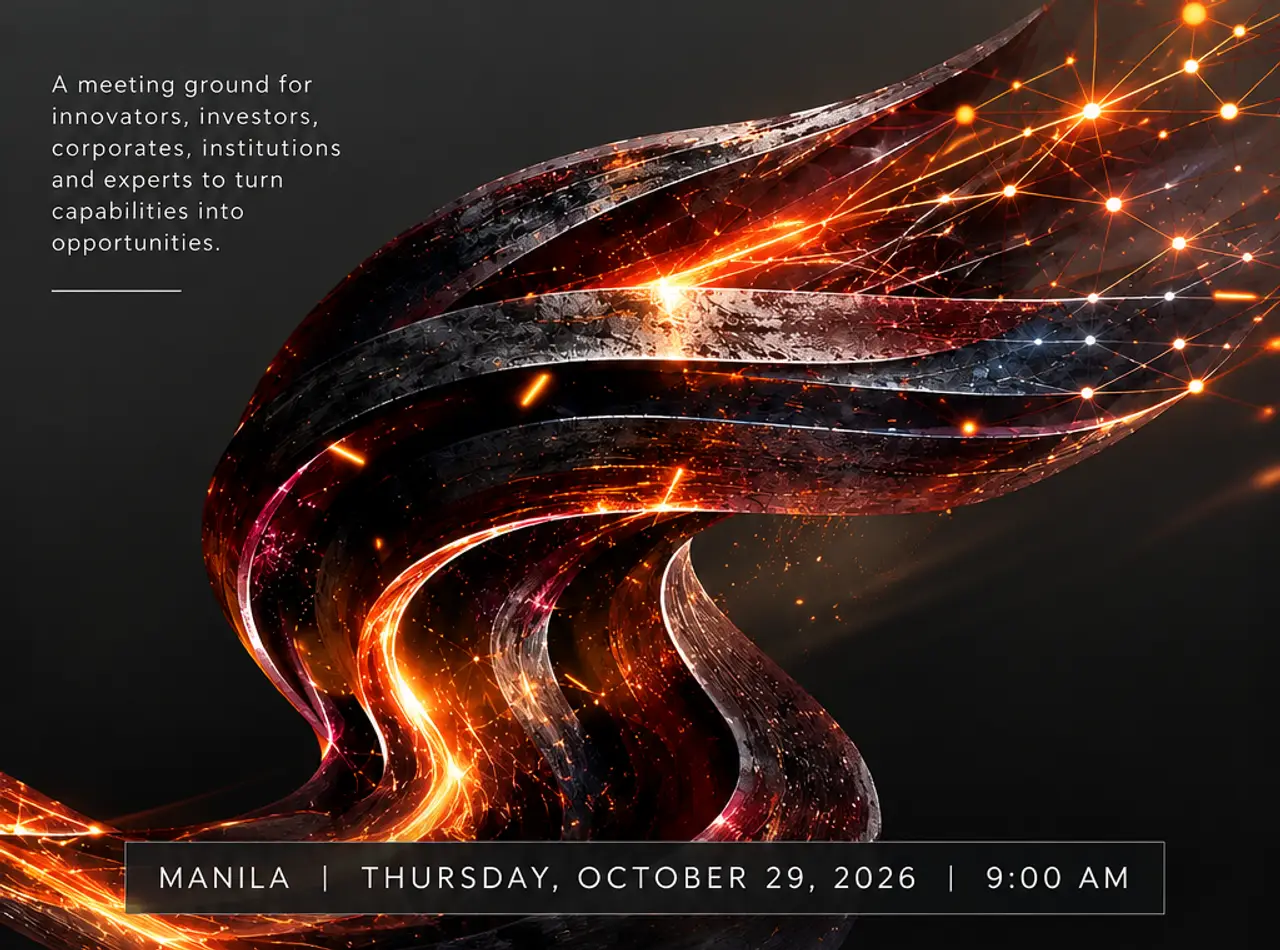
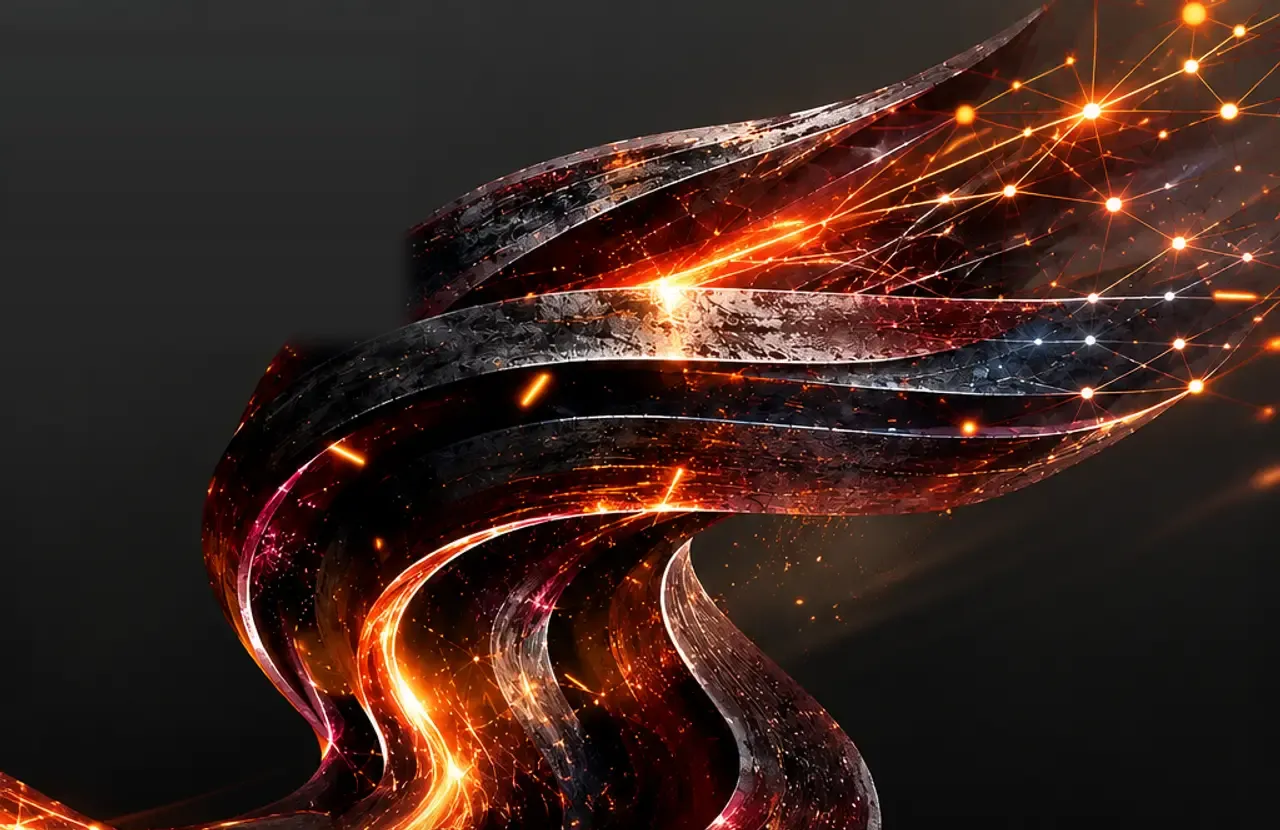
copy: event date to be announced
Replace every date with TBA (header pill, hero facts, menu, programme,
closing, footer, meta). Remove the hero countdown and the Event JSON-LD,
which both need a start date. Clean the fallback ribbon image of the
poster's date bar and paragraph, and use it as the share image instead
of the dated poster.

Claude-Session: https://claude.ai/code/session_01799v2cTxYZjZkqnfiP1j7i

diff --git a/src/sections/hero/hero.css b/src/sections/hero/hero.css
@@ -112,7 +112,7 @@
 .sec--hero .hero__tag em { font-style: italic; color: var(--ember); font-weight: 500; }
 .sec--hero .hero__tag-line { display: block; }
 
-/* Base: date strip, countdown, actions */
+/* Base: event facts */
 .sec--hero .hero__base { display: flex; flex-direction: column; align-items: center; gap: clamp(16px, 2.4svh, 24px); width: 100%; }
 .sec--hero .hero__strip {
   display: grid; grid-template-columns: repeat(2, auto); justify-content: center; gap: 6px 18px;
@@ -122,16 +122,6 @@
 }
 .sec--hero .hero__fact:last-child { grid-column: 1 / -1; color: var(--fog); }
 
-.sec--hero .hero__count { display: flex; flex-direction: column; align-items: center; gap: 8px; }
-.sec--hero .hero__count-label {
-  font-size: var(--fs-micro); font-weight: 600; letter-spacing: var(--track-label); text-transform: uppercase; color: var(--ember);
-}
-.sec--hero .hero__count-units { display: flex; gap: clamp(14px, 2.4vw, 26px); }
-.sec--hero .hero__unit { display: flex; flex-direction: column; align-items: center; min-width: 2.6ch; }
-.sec--hero .hero__num { font-size: var(--fs-h3); line-height: 1; color: var(--cream); font-stretch: 112%; }
-.sec--hero .hero__unit-k { margin-top: 4px; font-size: var(--fs-micro); letter-spacing: var(--track-wide); text-transform: uppercase; color: var(--mute); }
-.sec--hero .hero__count-done { max-width: 36ch; color: var(--bone); font-size: var(--fs-small); }
-.sec--hero .hero__count.is-live .hero__count-units { display: none; }
 
 .sec--hero .hero__ctas { display: flex; flex-wrap: wrap; justify-content: center; gap: 12px; }
 .sec--hero .hero__cta--ghost { background: rgba(8, 11, 14, 0.4); }
@@ -183,17 +173,15 @@
     flex-direction: row; align-items: flex-end; justify-content: space-between; gap: clamp(16px, 2.4vw, 40px);
     margin-top: auto; padding-top: clamp(20px, 4svh, 48px);
   }
-  /* Facts box hugs its text: three facts on one row, the venue beneath */
-  .sec--hero .hero__strip { display: grid; grid-template-columns: repeat(3, auto); justify-content: start; row-gap: 6px; }
+  /* Facts box hugs its text: city and date on one row, the venue beneath */
+  .sec--hero .hero__strip { display: grid; grid-template-columns: auto 1fr; justify-content: start; row-gap: 6px; }
   .sec--hero .hero__fact:last-child { grid-column: 1 / -1; text-align: left; }
-  .sec--hero .hero__count { align-items: flex-end; }
   .sec--hero .hero__fallback { left: auto; right: -12vw; bottom: auto; top: 50%; width: min(82vw, 150svh); translate: 0 -46%; }
   .sec--hero .hero__haze {
     background:
       radial-gradient(70% 70% at 18% 45%, rgba(8, 11, 14, 0.78), transparent 72%),
       linear-gradient(0deg, var(--ink) 0%, rgba(8, 11, 14, 0) 20%);
   }
-  .sec--hero .hero__num { font-size: min(var(--fs-h3), 4.4svh); }
 }
 
 @media (min-width: 2000px) {

diff --git a/index.html b/index.html
@@ -4,11 +4,11 @@
   <meta charset="utf-8" />
   <meta name="viewport" content="width=device-width, initial-scale=1, viewport-fit=cover" />
   <title>FORGE PH | The Cross-Industry Startup Forum</title>
-  <meta name="description" content="FORGE PH, presented by ICCPI. A live environment where promising ventures meet the capabilities, market access, smart capital and financial insight needed to move forward. Manila, Thursday 29 October 2026." />
+  <meta name="description" content="FORGE PH, presented by ICCPI. A live environment where promising ventures meet the capabilities, market access, smart capital and financial insight needed to move forward. Dusit Thani Manila, Makati. Date to be announced." />
   <meta name="theme-color" content="#080B0E" />
   <meta property="og:title" content="FORGE PH | Your startup. A day before Overground." />
-  <meta property="og:description" content="An event built like a startup. Configure capability. Change the risk. Convert into investment. 29 October 2026, Dusit Thani Manila, Makati." />
-  <meta property="og:image" content="/img/poster-1600.webp" />
+  <meta property="og:description" content="An event built like a startup. Configure capability. Change the risk. Convert into investment. Dusit Thani Manila, Makati. Date to be announced." />
+  <meta property="og:image" content="/img/ribbon-1280.webp" />
   <meta property="og:type" content="website" />
   <meta name="twitter:card" content="summary_large_image" />
   <link rel="icon" href="/img/iccpi-logo.png" type="image/png" />
@@ -29,9 +29,6 @@
     setTimeout(go, 700);
     if (d.fonts && d.fonts.load) d.fonts.load('900 1em Archivo').then(go, go); else go();
   })(document);
-  </script>
-  <script type="application/ld+json">
-  {"@context":"https://schema.org","@type":"Event","name":"FORGE PH: The Cross-Industry Startup Forum","startDate":"2026-10-29T09:00:00+08:00","eventAttendanceMode":"https://schema.org/OfflineEventAttendanceMode","eventStatus":"https://schema.org/EventScheduled","location":{"@type":"Place","name":"Dusit Thani Manila","address":{"@type":"PostalAddress","addressLocality":"Makati","addressCountry":"PH"}},"organizer":{"@type":"Organization","name":"Italian Chamber of Commerce in the Philippines, Inc. (ICCPI)"},"description":"A live environment where promising ventures meet the capabilities, market access, smart capital and financial insight needed to move forward."}
   </script>
 </head>
 <body>

diff --git a/src/sections/programme/programme.html b/src/sections/programme/programme.html
@@ -6,7 +6,7 @@
     <div class="wrap programme__wrap">
       <header class="programme__head">
         <p class="label programme__label">Programme. Context &amp; capital</p>
-        <p class="programme__date"><time datetime="2026-10-29" data-flap>Thursday, 29 October 2026</time></p>
+        <p class="programme__date"><span data-flap>Date TBA</span></p>
         <h2 id="programme-title" class="h-display programme__title">Morning: <em>the conditions for venture growth</em></h2>
       </header>
 
@@ -23,23 +23,23 @@
           <div class="programme__rail" aria-hidden="true"><span class="programme__rail-fill"></span></div>
           <ol class="programme__agenda">
             <li class="programme__slot" data-min="540">
-              <time class="programme__time num" datetime="2026-10-29T09:00+08:00" data-flap>09:00</time>
+              <time class="programme__time num" datetime="09:00" data-flap>09:00</time>
               <h3 class="programme__name">Opening: Why FORGE</h3>
             </li>
             <li class="programme__slot" data-min="565">
-              <time class="programme__time num" datetime="2026-10-29T09:25+08:00" data-flap>09:25</time>
+              <time class="programme__time num" datetime="09:25" data-flap>09:25</time>
               <h3 class="programme__name">Philippine Startup &amp; SME Landscape</h3>
             </li>
             <li class="programme__slot" data-min="605">
-              <time class="programme__time num" datetime="2026-10-29T10:05+08:00" data-flap>10:05</time>
+              <time class="programme__time num" datetime="10:05" data-flap>10:05</time>
               <h3 class="programme__name">Smart Capital</h3>
             </li>
             <li class="programme__slot" data-min="645">
-              <time class="programme__time num" datetime="2026-10-29T10:45+08:00" data-flap>10:45</time>
+              <time class="programme__time num" datetime="10:45" data-flap>10:45</time>
               <h3 class="programme__name">From Potential to Financial Readiness</h3>
             </li>
             <li class="programme__slot" data-min="685">
-              <time class="programme__time num" datetime="2026-10-29T11:25+08:00" data-flap>11:25</time>
+              <time class="programme__time num" datetime="11:25" data-flap>11:25</time>
               <h3 class="programme__name">Risk, Confidence &amp; Access to Finance</h3>
             </li>
           </ol>

diff --git a/src/sections/hero/hero.html b/src/sections/hero/hero.html
@@ -41,21 +41,9 @@
       <div class="hero__base">
         <p class="hero__strip">
           <span class="hero__fact">Manila</span>
-          <span class="hero__fact"><time datetime="2026-10-29">Thursday, 29 October 2026</time></span>
-          <span class="hero__fact"><time datetime="2026-10-29T09:00:00+08:00">9:00 AM</time></span>
+          <span class="hero__fact">Date TBA</span>
           <span class="hero__fact">Dusit Thani Manila, Makati</span>
         </p>
-
-        <div class="hero__count" data-countdown data-target="2026-10-29T09:00:00+08:00">
-          <p class="hero__count-label" data-count-label>Forum opens in</p>
-          <div class="hero__count-units" role="timer" aria-live="off" aria-atomic="true">
-            <span class="hero__unit"><span class="hero__num num" data-unit="d">00</span><span class="hero__unit-k">days</span></span>
-            <span class="hero__unit"><span class="hero__num num" data-unit="h">00</span><span class="hero__unit-k">hrs</span></span>
-            <span class="hero__unit"><span class="hero__num num" data-unit="m">00</span><span class="hero__unit-k">min</span></span>
-            <span class="hero__unit"><span class="hero__num num" data-unit="s">00</span><span class="hero__unit-k">sec</span></span>
-          </div>
-          <p class="hero__count-done" data-count-done hidden>The forum opened on Thursday, 29 October 2026, at 9:00 AM, Dusit Thani Manila.</p>
-        </div>
       </div>
     </div>
 

diff --git a/src/sections/chrome/chrome.html b/src/sections/chrome/chrome.html
@@ -15,7 +15,7 @@
       <span class="chrome__iccpi" title="Presented by ICCPI">
         <img src="/img/iccpi-logo.webp" width="310" height="290" alt="ICCPI" decoding="async" />
       </span>
-      <span class="chrome__pill"><time datetime="2026-10-29T09:00:00+08:00">29.10.26</time><span class="chrome__pill-sep" aria-hidden="true"></span>Manila</span>
+      <span class="chrome__pill">Date TBA<span class="chrome__pill-sep" aria-hidden="true"></span>Manila</span>
       <div class="chrome__actions">
         <a class="chrome__cta" href="#ask" data-chapter="ask" data-cursor="join">Get involved</a>
         <button class="chrome__toggle" type="button" aria-expanded="false" aria-controls="chrome-menu" data-cursor="open">
@@ -58,7 +58,7 @@
         <p class="chrome__preview" aria-hidden="true"><span class="chrome__preview-num">01</span></p>
         <div class="chrome__facts">
           <p class="chrome__facts-title">The Cross-Industry Startup Forum</p>
-          <p class="chrome__facts-line">Thursday, 29 October 2026, 9:00 AM</p>
+          <p class="chrome__facts-line">Date TBA</p>
           <p class="chrome__facts-line">Dusit Thani Manila, Makati</p>
           <p class="chrome__facts-line chrome__facts-line--mute">Presented by ICCPI</p>
           <a class="btn btn--solid chrome__menu-cta" href="#ask" data-chapter="ask" data-cursor="join">Get involved</a>

diff --git a/src/sections/hero/HeroSection.js b/src/sections/hero/HeroSection.js
@@ -1,16 +1,13 @@
 import { BaseSection } from '../../core/BaseSection.js';
-import { Countdown } from './Countdown.js';
 import { HeroMotion } from './HeroMotion.js';
 
 /**
- * Hero: the poster as a live forge. The GL act (HeroAct.js) forges the ribbon as the page scrolls,
- * and a countdown runs to the doors opening.
+ * Hero: the poster as a live forge. The GL act (HeroAct.js) forges the ribbon as the page scrolls.
  */
 export default class HeroSection extends BaseSection {
   static id = 'hero';
 
   init() {
-    this.countdown = new Countdown(this.$('[data-countdown]'));
     this.motion = new HeroMotion(this);
     this.parallax = null;
 
@@ -69,10 +66,6 @@ export default class HeroSection extends BaseSection {
         this.app.scroll.to(target);
       }, { passive: false });
     }
-  }
-
-  update(dt) {
-    this.countdown.tick(dt);
   }
 
   destroy() {

diff --git a/src/sections/footer/footer.html b/src/sections/footer/footer.html
@@ -15,8 +15,8 @@
 
     <div class="footer__grid">
       <dl class="footer__facts">
-        <div class="footer__fact"><dt>Date</dt><dd><time datetime="2026-10-29">Thursday, 29 October 2026</time></dd></div>
-        <div class="footer__fact"><dt>Time</dt><dd><time datetime="2026-10-29T09:00:00+08:00">9:00 AM</time></dd></div>
+        <div class="footer__fact"><dt>Date</dt><dd>TBA</dd></div>
+        <div class="footer__fact"><dt>Time</dt><dd>TBA</dd></div>
         <div class="footer__fact"><dt>Venue</dt><dd>Dusit Thani Manila, Makati</dd></div>
         <div class="footer__fact"><dt>Format</dt><dd>The Cross-Industry Startup Forum</dd></div>
       </dl>

diff --git a/src/sections/ask/ask.html b/src/sections/ask/ask.html
@@ -46,7 +46,7 @@
         <span class="line"><span>Convert into <em>investment.</em></span></span>
       </p>
       <p class="ask__when">
-        <time datetime="2026-10-29T09:00:00+08:00">Thursday, 29 October 2026, 9:00 AM</time>
+        <span class="ask__date">Date TBA</span>
         <span>Dusit Thani Manila, Makati</span>
       </p>
       <div class="ask__send ask__send--final">

diff --git a/src/sections/hero/HeroMotion.js b/src/sections/hero/HeroMotion.js
@@ -22,7 +22,6 @@ export class HeroMotion {
       ...section.$$('.hero__tag-line'),
       section.$('.hero__ctas'),
       section.$('.hero__strip'),
-      section.$('.hero__count'),
     ].filter(Boolean);
   }
 
